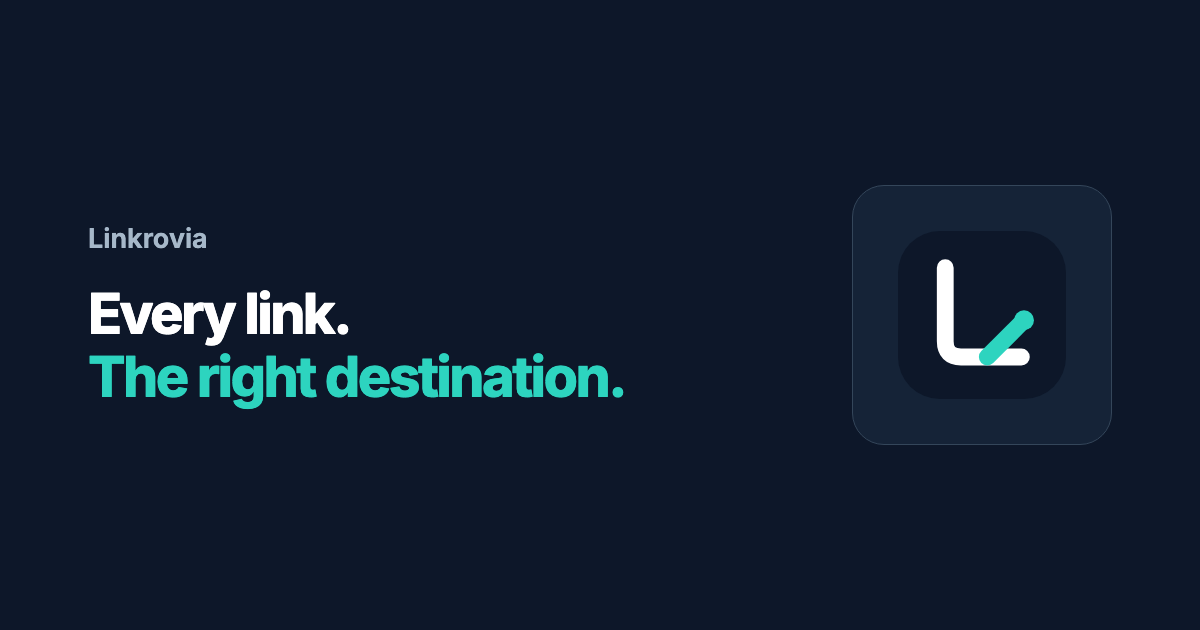
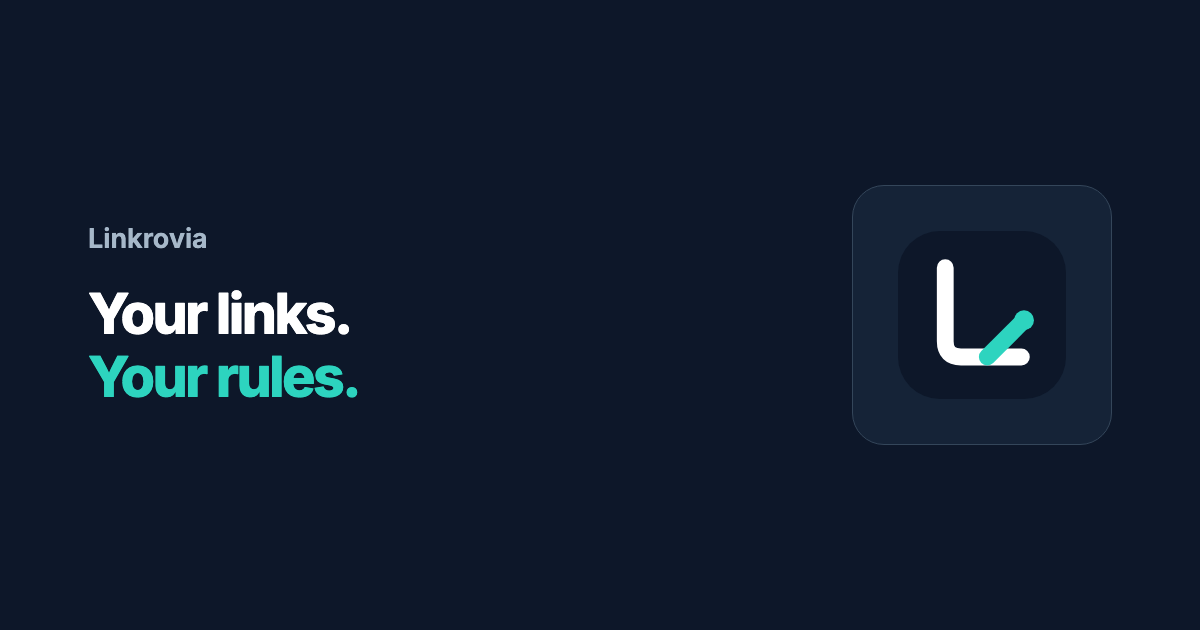
Adopt the official Linkrovia tagline

Changed region(s): [[0.0617, 0.4524, 0.5242, 0.6635]]

diff --git a/tests/e2e/foundation.test.ts b/tests/e2e/foundation.test.ts
@@ -82,9 +82,9 @@ test('renders the branded landing in all locales, two themes, and two widths', a
     await page.goto('/');
     await expect(page.locator('html')).toHaveAttribute('lang', locale);
     await expect(page.locator('html')).toHaveAttribute('data-theme', 'system');
-    await expect(page.getByRole('heading', { level: 1 })).toHaveText(
-      landingCopy[locale].headline.join(' '),
-    );
+    const headline = page.getByRole('heading', { level: 1 });
+    await expect(headline).toHaveText('Your links. Your rules.');
+    await expect(headline).toHaveAttribute('lang', 'en');
     await expect(page.locator('figcaption')).toHaveText(
       landingCopy[locale].example,
     );

diff --git a/src/routes/+page.svelte b/src/routes/+page.svelte
@@ -56,7 +56,7 @@
     <section class="hero landing-inner">
       <div class="hero-copy">
         <p class="hero-kicker">LINKROVIA / OPEN SOURCE</p>
-        <h1>{copy.headline[0]} <span>{copy.headline[1]}</span></h1>
+        <h1 lang="en">{copy.headline[0]} <span>{copy.headline[1]}</span></h1>
         <p class="description">{messages['home.description']}</p>
         {#if data.canSignIn}
           <a

diff --git a/docs/BRAND.md b/docs/BRAND.md
@@ -4,7 +4,7 @@ This guide describes the identity used by the Linkrovia open-source project. A s
 
 ## Identity
 
-Use the name `Linkrovia` with that capitalization. The recommended product line is **Every link. The right destination.** The short description is **Open-source smart link management on your Cloudflare account.** Avoid claims that imply Cloudflare sponsorship, guaranteed cost, or perfectly accurate analytics.
+Use the name `Linkrovia` with that capitalization. The official tagline is **Your links. Your rules.** The short description is **Open-source smart link management on your Cloudflare account.** Avoid claims that imply Cloudflare sponsorship, guaranteed cost, or perfectly accurate analytics.
 
 The route monogram represents a primary path with a mint branch to another destination. Do not add arrows, text, cloud imagery, chain imagery, or extra gradients to the mark.
 

diff --git a/README.md b/README.md
@@ -6,7 +6,7 @@
 
 # Linkrovia
 
-**Self-hosted short links, smart redirects, and analytics on Cloudflare.**
+**Your links. Your rules.**
 
 Use your own domain, route visitors to the right destination, and see how each link performs. A Cloudflare Worker serves the admin dashboard, handles redirects, and runs scheduled analytics jobs.
 
